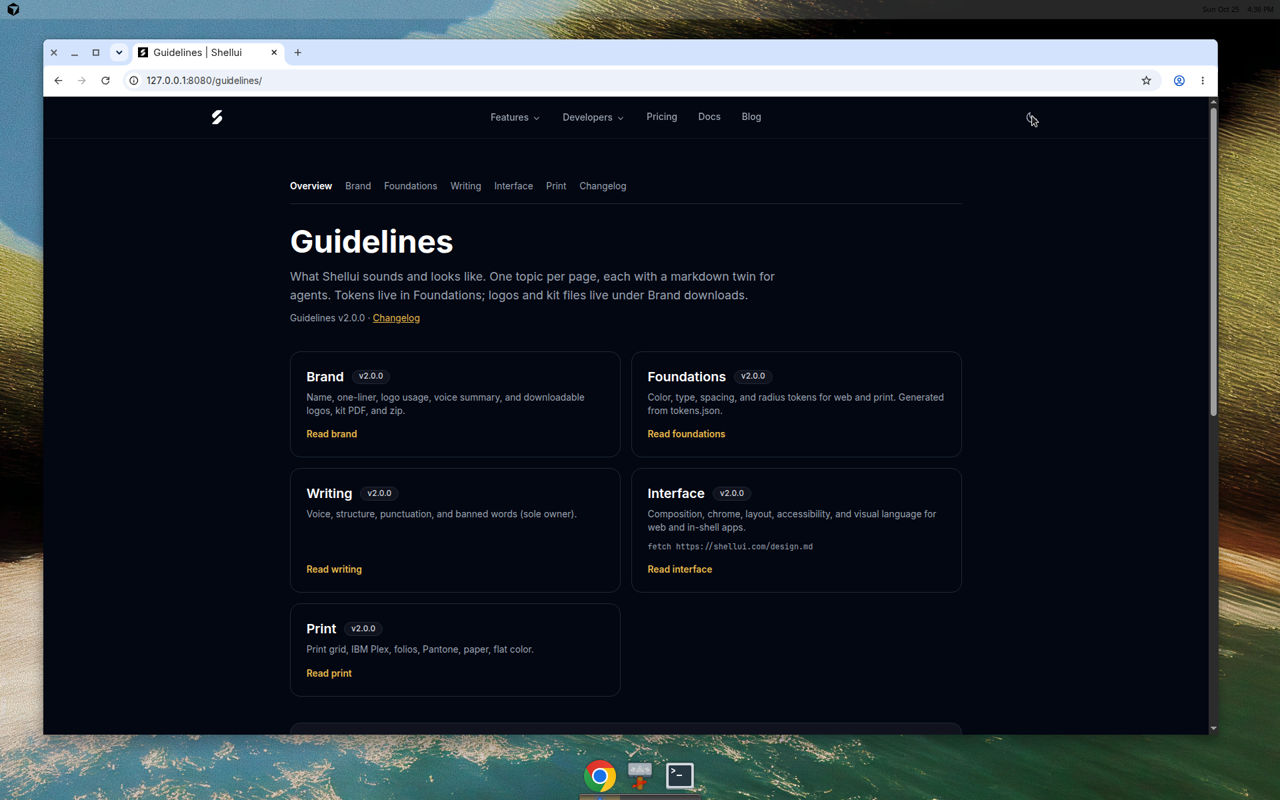
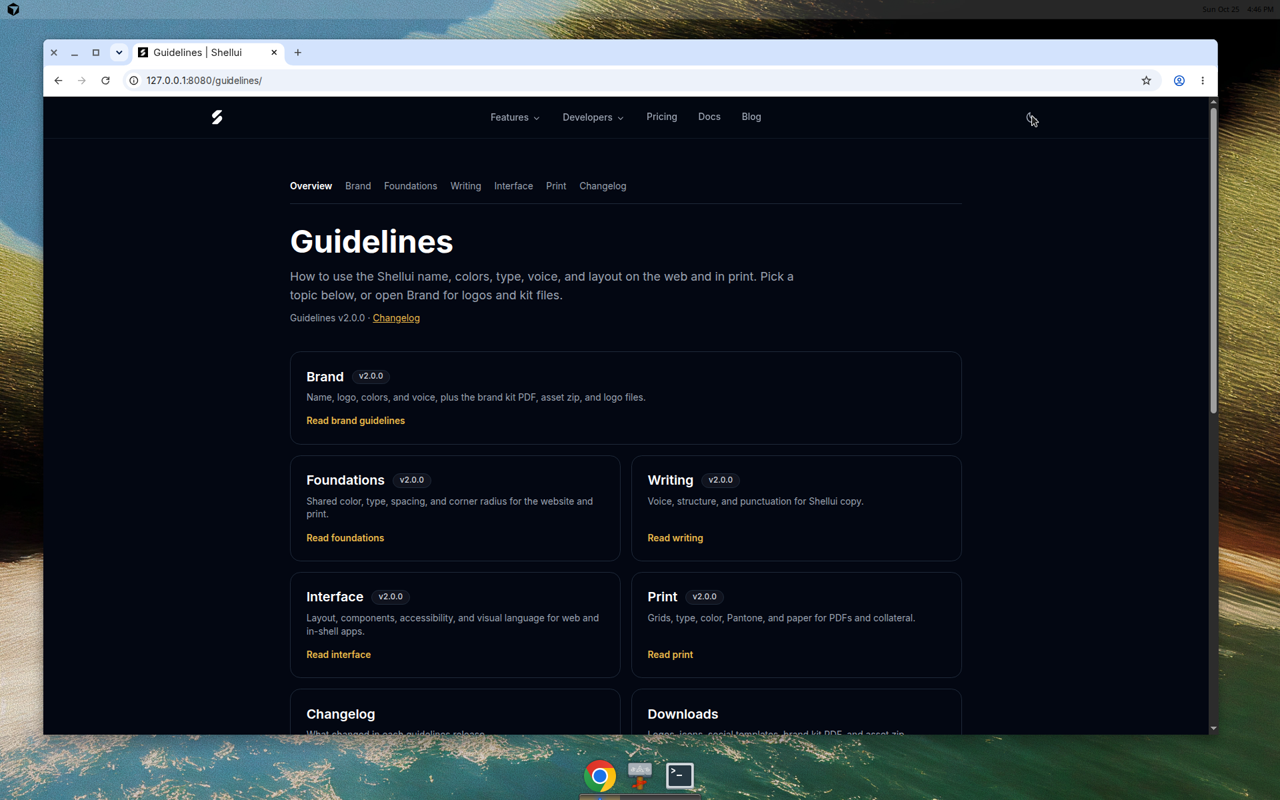
Polish public guideline copy and hub layout
Rewrite hub intro and card copy for external readers. Balance hub grid
(Brand lead, Changelog and Downloads cards). Standardize For agents boxes
with markdown URL and copy button only.

Remove internal jargon from guideline markdown, add prose verify script,
and refresh docs/guidelines-screens/. Set ELEVENTY_RUN_MODE on build for
asset fingerprints.

diff --git a/src/_data/guidelines.js b/src/_data/guidelines.js
@@ -13,7 +13,7 @@ const catalog = [
     navLabel: "Brand",
     downloadName: "brand.md",
     hubDescription:
-      "Name, one-liner, logo usage, voice summary, and downloadable logos, kit PDF, and zip.",
+      "Name, logo, colors, and voice, plus the brand kit PDF, asset zip, and logo files.",
   },
   {
     slug: "foundations",
@@ -21,7 +21,7 @@ const catalog = [
     navLabel: "Foundations",
     downloadName: "foundations.md",
     hubDescription:
-      "Color, type, spacing, and radius tokens for web and print. Generated from tokens.json.",
+      "Shared color, type, spacing, and corner radius for the website and print.",
     visualHandbook: true,
   },
   {
@@ -29,7 +29,7 @@ const catalog = [
     href: "/guidelines/writing/",
     navLabel: "Writing",
     downloadName: "writing.md",
-    hubDescription: "Voice, structure, punctuation, and banned words (sole owner).",
+    hubDescription: "Voice, structure, and punctuation for Shellui copy.",
   },
   {
     slug: "interface",
@@ -38,7 +38,7 @@ const catalog = [
     downloadName: "interface.md",
     publicUrl: "/guidelines/interface.md",
     hubDescription:
-      "Composition, chrome, layout, accessibility, and visual language for web and in-shell apps.",
+      "Layout, components, accessibility, and visual language for web and in-shell apps.",
     agentAliasUrl: "/design.md",
   },
   {
@@ -46,7 +46,7 @@ const catalog = [
     href: "/guidelines/print/",
     navLabel: "Print",
     downloadName: "print.md",
-    hubDescription: "Print grid, IBM Plex, folios, Pantone, paper, flat color.",
+    hubDescription: "Grids, type, color, Pantone, and paper for PDFs and collateral.",
   },
   {
     slug: "changelog",
@@ -186,6 +186,5 @@ const topics = catalog.map(loadTopic);
 export default {
   topics,
   bySlug: Object.fromEntries(topics.map((topic) => [topic.slug, topic])),
-  parentSkillPath: "shellui/skills/skills/guidelines/SKILL.md",
   versionsNote: "All guideline topics are 2.0.0 in this release.",
 };

diff --git a/content/guidelines/web-design.md b/content/guidelines/web-design.md
@@ -11,18 +11,9 @@ Stable alias for agents and bookmarks. **Canonical Interface handbook:** [`/guid
 When **composing pages**, prefer [`design.md`](https://shellui.com/design.md) first, then fetch the full file below for UI, accessibility, and chrome detail.
 
 
-Interface rules cover layout, interaction, and composition on [shellui.com](https://shellui.com), [docs.shellui.com](https://docs.shellui.com), and apps hosted in the Shellui iframe. Pair with [Writing](/guidelines/writing/) for copy and [Foundations](/guidelines/foundations/) for tokens. Lead with the shipping shell: navigation, authentication, administration, storage, light and dark themes. Keep AI, MCP, and marketplace chrome out of the default UI.
+Layout, interaction, and composition rules for [shellui.com](https://shellui.com), [docs.shellui.com](https://docs.shellui.com), and apps hosted in the Shellui iframe. Use [Writing](/guidelines/writing/) for copy and [Foundations](/guidelines/foundations/) for color and type values. Lead with the shipping shell: navigation, authentication, administration, storage, light and dark themes. Keep AI, MCP, and marketplace chrome out of the default UI.
 
-Agents: load this file or `/design.md` (stable alias). Do not scrape HTML handbooks. The `version` field in frontmatter is the public "Guidelines v…" label.
-
-## How to use this file
-
-- **Humans**: `/guidelines/interface/`
-- **Agents**: `https://shellui.com/guidelines/interface.md` or `https://shellui.com/design.md`
-- **Writing**: [writing.md](/guidelines/writing/) for voice, punctuation, and banned words
-- **Tokens**: [foundations.md](/guidelines/foundations/) and [tokens.json](/guidelines/generated/tokens.json)
-- **Brand logos**: [brand.md](/guidelines/brand/) only
-- **Hub**: [Guidelines](/guidelines/)
+For a shorter agent file when composing pages, fetch [`design.md`](https://shellui.com/design.md). The full rule set is this page.
 
 Review files against every rule below. Output concise, high-signal findings. Sacrifice grammar for brevity.
 
@@ -46,7 +37,7 @@ Ask questions only when proceeding could change product claims, pricing, securit
 ## Stack
 
 - Templates: Nunjucks in `src/`. Layouts: `base`, `page`, `feature`, `post`, `guidelines`, `guidelines-foundations`.
-- CSS: `src/assets/css/input.css` → `/assets/css/site.css`. Token values: generated from `tokens/tokens.json` into `src/_data/designTokens.js` and `input.css`.
+- CSS: `src/assets/css/input.css` → `/assets/css/site.css`. Color and radius values match [Foundations](/guidelines/foundations/).
 - JS: Alpine (`src/blocks/`), Plus Elements (`/assets/js/elements.js`), theme toggle (`src/assets/js/site.js`).
 - Islands: one page may lazy-load one React bundle for a single interactive piece it cannot express in Alpine. Source in `src/islands/`, bundled by esbuild with its CSS inlined. Ship a static fallback in Nunjucks and reuse token variables.
 - Images: `img/`, logos from [Brand downloads](/guidelines/brand/#downloads). Do not stretch or recolor the wordmark.
@@ -79,7 +70,7 @@ The product is a microfrontend shell. The host owns shared chrome; the iframe ow
 - Decorative icons need `aria-hidden="true"`
 - Async updates (toasts, validation) need `aria-live="polite"`. Shell toasts already live in the host - use the SDK, don't mount a second live region that fights the host
 - Semantic HTML (`header`, `nav`, `main`, `footer`) before ARIA
-- Headings hierarchical `h1`–`h6`; one `h1` per page
+- Headings hierarchical from `h1` to `h6`; one `h1` per page
 - Include a skip link to main content on long chrome (shell and marketing header)
 - `scroll-margin-top` on heading anchors so the fixed header does not cover the target
 - Meaningful media needs captions, transcripts, or descriptions
@@ -147,7 +138,7 @@ Passes: frame the job → choose composition → apply Foundations tokens → in
 - Leading a shipping-product page with AI / MCP / marketplace atmosphere
 - Authoring-process narration in page copy
 
-Voice rejects (banned words, dashes): [Writing](/guidelines/writing/).
+Voice and punctuation: [Writing](/guidelines/writing/).
 
 ## Motion, touch, and layout
 
@@ -181,7 +172,7 @@ Voice rejects (banned words, dashes): [Writing](/guidelines/writing/).
 - `theme-color` meta matches the page background
 - Native `<select>`: explicit `background-color` and `color` (Windows dark mode)
 - Ellipsis `…`, not three dots `...`. Loading states: `Loading…`, `Saving…`
-- Punctuation and banned words: [Writing guidelines](/guidelines/writing/) owns them. UI copy follows the same rules
+- Punctuation and word choice: follow [Writing](/guidelines/writing/)
 - Straight quotes in source. Don't convert to curly quotes by hand
 - `font-variant-numeric: tabular-nums` for number columns and comparisons
 - `text-wrap: balance` or `text-pretty` on headings (prevents widows)

diff --git a/content/guidelines/interface.md b/content/guidelines/interface.md
@@ -7,18 +7,9 @@ canonical: /guidelines/interface/
 related: /design.md, /guidelines/foundations/, /guidelines/writing/
 ---
 
-Interface rules cover layout, interaction, and composition on [shellui.com](https://shellui.com), [docs.shellui.com](https://docs.shellui.com), and apps hosted in the Shellui iframe. Pair with [Writing](/guidelines/writing/) for copy and [Foundations](/guidelines/foundations/) for tokens. Lead with the shipping shell: navigation, authentication, administration, storage, light and dark themes. Keep AI, MCP, and marketplace chrome out of the default UI.
+Layout, interaction, and composition rules for [shellui.com](https://shellui.com), [docs.shellui.com](https://docs.shellui.com), and apps hosted in the Shellui iframe. Use [Writing](/guidelines/writing/) for copy and [Foundations](/guidelines/foundations/) for color and type values. Lead with the shipping shell: navigation, authentication, administration, storage, light and dark themes. Keep AI, MCP, and marketplace chrome out of the default UI.
 
-Agents: load this file or `/design.md` (stable alias). Do not scrape HTML handbooks. The `version` field in frontmatter is the public "Guidelines v…" label.
-
-## How to use this file
-
-- **Humans**: `/guidelines/interface/`
-- **Agents**: `https://shellui.com/guidelines/interface.md` or `https://shellui.com/design.md`
-- **Writing**: [writing.md](/guidelines/writing/) for voice, punctuation, and banned words
-- **Tokens**: [foundations.md](/guidelines/foundations/) and [tokens.json](/guidelines/generated/tokens.json)
-- **Brand logos**: [brand.md](/guidelines/brand/) only
-- **Hub**: [Guidelines](/guidelines/)
+For a shorter agent file when composing pages, fetch [`design.md`](https://shellui.com/design.md). The full rule set is this page.
 
 Review files against every rule below. Output concise, high-signal findings. Sacrifice grammar for brevity.
 
@@ -42,7 +33,7 @@ Ask questions only when proceeding could change product claims, pricing, securit
 ## Stack
 
 - Templates: Nunjucks in `src/`. Layouts: `base`, `page`, `feature`, `post`, `guidelines`, `guidelines-foundations`.
-- CSS: `src/assets/css/input.css` → `/assets/css/site.css`. Token values: generated from `tokens/tokens.json` into `src/_data/designTokens.js` and `input.css`.
+- CSS: `src/assets/css/input.css` → `/assets/css/site.css`. Color and radius values match [Foundations](/guidelines/foundations/).
 - JS: Alpine (`src/blocks/`), Plus Elements (`/assets/js/elements.js`), theme toggle (`src/assets/js/site.js`).
 - Islands: one page may lazy-load one React bundle for a single interactive piece it cannot express in Alpine. Source in `src/islands/`, bundled by esbuild with its CSS inlined. Ship a static fallback in Nunjucks and reuse token variables.
 - Images: `img/`, logos from [Brand downloads](/guidelines/brand/#downloads). Do not stretch or recolor the wordmark.
@@ -75,7 +66,7 @@ The product is a microfrontend shell. The host owns shared chrome; the iframe ow
 - Decorative icons need `aria-hidden="true"`
 - Async updates (toasts, validation) need `aria-live="polite"`. Shell toasts already live in the host - use the SDK, don't mount a second live region that fights the host
 - Semantic HTML (`header`, `nav`, `main`, `footer`) before ARIA
-- Headings hierarchical `h1`–`h6`; one `h1` per page
+- Headings hierarchical from `h1` to `h6`; one `h1` per page
 - Include a skip link to main content on long chrome (shell and marketing header)
 - `scroll-margin-top` on heading anchors so the fixed header does not cover the target
 - Meaningful media needs captions, transcripts, or descriptions
@@ -143,7 +134,7 @@ Passes: frame the job → choose composition → apply Foundations tokens → in
 - Leading a shipping-product page with AI / MCP / marketplace atmosphere
 - Authoring-process narration in page copy
 
-Voice rejects (banned words, dashes): [Writing](/guidelines/writing/).
+Voice and punctuation: [Writing](/guidelines/writing/).
 
 ## Motion, touch, and layout
 
@@ -177,7 +168,7 @@ Voice rejects (banned words, dashes): [Writing](/guidelines/writing/).
 - `theme-color` meta matches the page background
 - Native `<select>`: explicit `background-color` and `color` (Windows dark mode)
 - Ellipsis `…`, not three dots `...`. Loading states: `Loading…`, `Saving…`
-- Punctuation and banned words: [Writing guidelines](/guidelines/writing/) owns them. UI copy follows the same rules
+- Punctuation and word choice: follow [Writing](/guidelines/writing/)
 - Straight quotes in source. Don't convert to curly quotes by hand
 - `font-variant-numeric: tabular-nums` for number columns and comparisons
 - `text-wrap: balance` or `text-pretty` on headings (prevents widows)

diff --git a/content/guidelines/foundations.md b/content/guidelines/foundations.md
@@ -1,22 +1,22 @@
 ---
 title: Foundations
-description: Shellui design tokens for color, type, spacing, and radius on web and in print. Generated tables stay in sync with tokens/tokens.json.
+description: Color, type, spacing, and corner radius shared across Shellui web and print.
 version: 2.0.0
 updated: 2026-10-25
 canonical: /guidelines/foundations/
 related: /guidelines/interface/, /guidelines/print/, /design.md
 ---
 
-Foundations are the shared numbers: color, type, spacing, and radius. Values on this page are generated from [`tokens/tokens.json`](https://github.com/shellui/website/blob/develop/tokens/tokens.json) at build time. If a hex here disagrees with prose elsewhere, trust this page.
+Foundations are the shared numbers behind Shellui surfaces: color, type, spacing, and corner radius. The tables on this page match what ships on shellui.com. If a hex here disagrees with another page, use the values here.
 
-- **Web**: Inter on screen (self-hosted on shellui.com). Token utilities in Tailwind (`bg-primary`, `text-primary-ink`, and the rest).
-- **Print**: IBM Plex Sans and Plex Mono. See [Print](/guidelines/print/) for grid, folios, and Pantone.
-- **Interface**: how to compose pages with these tokens. See [Interface](/guidelines/interface/).
+- **Web**: Inter on screen. Use the token utilities in Tailwind (`bg-primary`, `text-primary-ink`, and the rest).
+- **Print**: IBM Plex Sans and Plex Mono. See [Print](/guidelines/print/) for layout, page numbers, and Pantone.
+- **Interface**: how pages are composed with these values. See [Interface](/guidelines/interface/).
 
 ## Downloads
 
-- [tokens.json](/guidelines/generated/tokens.json): W3C Design Tokens source
-- [tokens.css](/guidelines/generated/tokens.css): `:root` variables for light theme
+- [Design tokens (JSON)](/guidelines/generated/tokens.json): machine-readable color and radius values
+- [Design tokens (CSS)](/guidelines/generated/tokens.css): light-theme CSS variables
 
 ## Color tokens (web)
 
@@ -45,8 +45,8 @@ Brand gold `#E3A512` is for fills, rules, and the logo, not body text. Text gold
 | --- | --- | --- | --- |
 | Brand gold | `#E3A512` | 124 C (7405 U uncoated) | Fills, rules, logo |
 | Text gold | `#8A6300` | 4027 C | Links and gold text on light |
-| Text gold (dark) | `#E8B84A` | — | Links and gold text on dark |
-| On gold | `#1A1408` | — | Text on gold buttons |
+| Text gold (dark) | `#E8B84A` | n/a | Links and gold text on dark |
+| On gold | `#1A1408` | n/a | Text on gold buttons |
 
 Verify coated and uncoated Pantone against a physical swatch before the first print run.
 

diff --git a/content/guidelines/design.md b/content/guidelines/design.md
@@ -9,9 +9,9 @@ related: /guidelines/interface/, /guidelines/foundations/
 
 Act as an excellent Shellui designer, editor, and information architect. Turn the available material into an official Shellui-authored page. Shape the argument and the interface together. Do not restyle a dump of sections or assemble a generic landing page.
 
-Fetch this file at `https://shellui.com/design.md` when building or restyling pages. It is the **trimmed** composition authority. Do not scrape HTML handbooks.
+Fetch this file at `https://shellui.com/design.md` when building or restyling pages. It is a short composition guide.
 
-**Full Interface rules** (chrome, accessibility, forms, motion, performance, review format): [`https://shellui.com/guidelines/interface.md`](https://shellui.com/guidelines/interface.md)
+**Full Interface rules** (chrome, accessibility, forms, motion, performance): [`https://shellui.com/guidelines/interface.md`](https://shellui.com/guidelines/interface.md)
 
 | Topic | URL |
 | --- | --- |
@@ -63,7 +63,7 @@ Ask questions only when proceeding could change product claims, pricing, securit
 ## Stack
 
 - Templates: Nunjucks in `src/`. Layouts: `base`, `page`, `feature`, `post`, `guidelines`, `guidelines-foundations`.
-- CSS: `src/assets/css/input.css` → `/assets/css/site.css`. Token values: generated from `tokens/tokens.json` into `src/_data/designTokens.js` and `input.css`.
+- CSS: `src/assets/css/input.css` → `/assets/css/site.css`. Color and radius values match [Foundations](/guidelines/foundations/).
 - JS: Alpine (`src/blocks/`), Plus Elements (`/assets/js/elements.js`), theme toggle (`src/assets/js/site.js`).
 - Islands: one page may lazy-load one React bundle for a single interactive piece it cannot express in Alpine. Source in `src/islands/`, bundled by esbuild with its CSS inlined. Ship a static fallback in Nunjucks and reuse token variables.
 - Images: `img/`, logos from [Brand downloads](/guidelines/brand/#downloads). Do not stretch or recolor the wordmark.
@@ -108,4 +108,4 @@ Passes: frame the job → choose composition → apply Foundations tokens → in
 - Leading a shipping-product page with AI / MCP / marketplace atmosphere
 - Authoring-process narration in page copy
 
-Voice rejects (banned words, dashes): [Writing](/guidelines/writing/).
+Voice and punctuation: [Writing](/guidelines/writing/).

diff --git a/content/guidelines/changelog.md b/content/guidelines/changelog.md
@@ -1,6 +1,6 @@
 ---
 title: Guidelines changelog
-description: Version history for all Shellui public guidelines (major release 2.0.0).
+description: Version history for Shellui public guidelines.
 version: 2.0.0
 updated: 2026-10-25
 canonical: /guidelines/changelog/
@@ -10,15 +10,15 @@ canonical: /guidelines/changelog/
 
 Major reorganization for the website release.
 
-- **Hub**: overview plus cards for Brand, Foundations, Writing, Interface, Print, and this changelog
-- **Brand**: identity and [Downloads](/guidelines/brand/#downloads) replace the standalone brand assets page (URLs redirect)
-- **Foundations**: token source `tokens/tokens.json` generates CSS, tables, and downloads
-- **Interface**: merges former design and web design guidelines; `/design.md` stays as agent alias
-- **Print**: new HTML and markdown for print grid, IBM Plex, folios, Pantone, and paper
-- **Writing**: sole owner of punctuation and banned words
-- **Agents**: `llms-full.txt`, raw `.md` twins; `/design.md` trimmed alias; `/guidelines/web-design.md` full Interface copy
-- **Site**: Inter self-hosted on screen; text gold `#8A6300` / `#E8B84A` in dark mode
+- **Hub**: overview and topic cards for Brand, Foundations, Writing, Interface, and Print
+- **Brand**: identity and [Downloads](/guidelines/brand/#downloads) replace the standalone brand assets page (legacy URLs redirect in the browser)
+- **Foundations**: shared color, type, spacing, and radius for web and print
+- **Interface**: former design and web design guidelines merged; `/design.md` stays a shorter agent entry point
+- **Print**: layout, IBM Plex, page numbers, Pantone, and paper
+- **Writing**: punctuation and word-choice rules live here only
+- **Agents**: `/llms-full.txt` and public markdown URLs for each topic
+- **Site**: Inter on screen; text gold `#8A6300` / `#E8B84A` in dark mode
 
 ## 1.x (archived)
 
-Prior versions lived as separate writing (1.0.0), web design (1.1.1), design (1.3.1), and brand (1.0.0) files. Legacy HTML pages at `/guidelines/design/` and `/guidelines/web-design/` fall back to Interface.
+Prior versions lived as separate writing (1.0.0), web design (1.1.1), design (1.3.1), and brand (1.0.0) files. Legacy `/guidelines/design/` and `/guidelines/web-design/` pages redirect to Interface.

diff --git a/content/guidelines/print.md b/content/guidelines/print.md
@@ -1,18 +1,18 @@
 ---
 title: Print
-description: Print layout, typography, color, and paper for Shellui brand materials. Flat color, IBM Plex, Pantone references for brand gold.
+description: Layout, typography, color, and paper for Shellui brand materials in print and PDF.
 version: 2.0.0
 updated: 2026-10-25
 canonical: /guidelines/print/
 related: /guidelines/brand/, /guidelines/foundations/
 ---
 
-Print rules for PDFs, decks, and collateral. The downloadable [brand kit PDF](/brand-assets/shellui-brand-kit-v1.pdf) is a rendered handbook plus samples; this page is the searchable source agents and humans fetch as markdown.
+Rules for PDFs, decks, and printed collateral. The [brand kit PDF](/brand-assets/shellui-brand-kit-v1.pdf) shows samples; this page is the reference you can search and link.
 
 ## Grid and margins
 
 - **Page size**: A4 for the brand kit
-- **Margins**: 20 mm on top and sides, 22 mm on the bottom (room for the folio)
+- **Margins**: 20 mm on top and sides, 22 mm on the bottom (room for the page number)
 - **Grid**: 12 columns, 6 mm gutter, 2 mm baseline unit for spacing steps
 - **Feature layout**: label column (3) plus content column (9), 8 mm apart
 
@@ -25,7 +25,7 @@ Dark pages are allowed anywhere in a document, including covers. Keep generous m
 
 ## Page numbers
 
-- Folio on **body pages only**, bottom right, tabular numerals
+- Page numbers on **body pages only**, bottom right, tabular numerals
 - **No page numbers on covers** or section dividers that read as covers
 - Running head on body pages; covers carry title art only
 
@@ -59,9 +59,3 @@ Ask your print vendor to match `#E3A512` and `#8A6300` with ink drawdowns, not o
 ## Logo in print
 
 Logo usage, clear space, and misuse pairs live in [Brand](/guidelines/brand/). Use official files from [Downloads](/guidelines/brand/#downloads). No lockups in v1: wordmark and mark stay separate.
-
-## How to use this file
-
-- **Humans**: `/guidelines/print/`
-- **Agents**: fetch `https://shellui.com/guidelines/print.md`
-- **Hub**: [Guidelines](/guidelines/)

diff --git a/content/guidelines/writing.md b/content/guidelines/writing.md
@@ -9,18 +9,9 @@ related: /guidelines/interface/, /guidelines/brand/
 
 These rules cover copy on [shellui.com](https://shellui.com), [docs.shellui.com](https://docs.shellui.com), and in-product strings that developers read. Lead with what Shellui ships today: a microfrontend shell with shared navigation, authentication, administration, and storage. Keep AI, MCP, and marketplace ideas quiet unless the page is actually about that surface.
 
-Agents: load this file. Do not scrape the HTML page. The `version` field in the frontmatter is the public "Guidelines v…" label.
-
-## How to use this file
-
-- **Humans**: read the page at `/guidelines/writing/`, or download this markdown
-- **Agents**: read `content/guidelines/writing.md` in this repo, or fetch `https://shellui.com/guidelines/writing.md`
-- **Skill wrapper**: `skills/writing-guidelines/SKILL.md`
-- **Sibling**: [Interface](/guidelines/interface/) for UI, accessibility, and chrome
-- **Compose pages with**: [design.md](/design.md) (`fetch https://shellui.com/design.md`) or [interface.md](/guidelines/interface.md)
-- **Hub**: [Guidelines](/guidelines/)
-
 Review files against every rule below. Output concise, high-signal findings. Sacrifice grammar for brevity.
+
+Related: [Interface](/guidelines/interface/) for layout and UI, [design.md](/design.md) when composing pages, [Guidelines hub](/guidelines/).
 
 ## Brand
 

diff --git a/content/guidelines/brand.md b/content/guidelines/brand.md
@@ -7,7 +7,7 @@ canonical: /guidelines/brand/
 related: /guidelines/foundations/, /guidelines/print/, /guidelines/writing/
 ---
 
-Brand is identity: name, one-liner, logo, color summary, and production files. Token numbers live in [Foundations](/guidelines/foundations/). Print grid and Pantone live in [Print](/guidelines/print/). Voice and punctuation live in [Writing](/guidelines/writing/).
+Brand covers who Shellui is on the page: name, one-liner, logo, color, and voice. Numbers and type scales live in [Foundations](/guidelines/foundations/). Print production rules live in [Print](/guidelines/print/). Full copy rules live in [Writing](/guidelines/writing/).
 
 ## Name and one-liner
 
@@ -41,9 +41,3 @@ Production files stay at stable URLs under `/brand-assets/` (hotlinked in the ki
 - [Brand assets v1 (ZIP)](/brand-assets/shellui-brand-assets-v1.zip): logos, icons, Open Graph images, social banners, email signature
 
 Individual logos, icons, and social templates are listed on this page in the download grid below the prose.
-
-## How to use this file
-
-- **Humans**: `/guidelines/brand/`
-- **Agents**: `https://shellui.com/guidelines/brand.md`
-- **Hub**: [Guidelines](/guidelines/)
